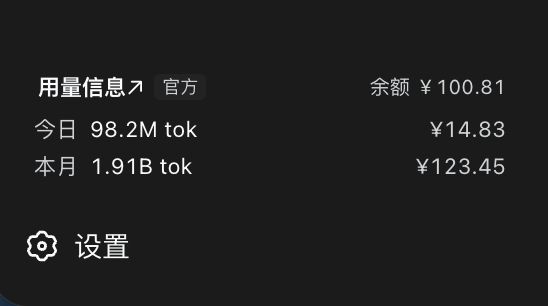
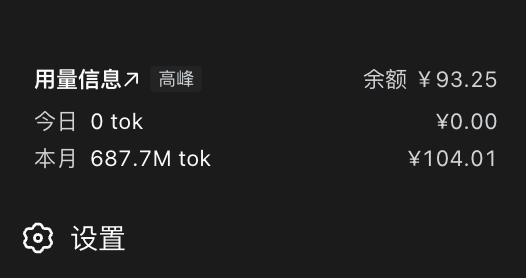
ui: restore pricing tier badge and refresh preview

diff --git a/client.js b/client.js
@@ -36,6 +36,15 @@ if (typeof window !== 'undefined' && window.__ModuleLoader__) {
       return `余额 ${symbol}${truncate2(amount).toFixed(2)}`
     }
 
+    // 恢复原有北京时间时段提示；仅用于展示，不参与 token 或费用计算。
+    function pricingTier() {
+      const now = new Date(Date.now() + 8 * 60 * 60 * 1000)
+      const h = now.getUTCHours()
+      const day = now.getUTCDay()
+      if (day === 0 || day === 6) return '空闲'
+      return (h >= 9 && h < 12) || (h >= 14 && h < 18) ? '高峰' : '空闲'
+    }
+
     module.exports.inject = ['slots']
 
     module.exports.apply = function apply(ctx) {
@@ -132,8 +141,8 @@ if (typeof window !== 'undefined' && window.__ModuleLoader__) {
           },
             React.createElement('span', { className: 'dshus-title' }, '用量信息'),
             React.createElement('span', { className: 'dshus-link' }, '↗'),
-            data !== null && data.status === 'ready'
-              ? React.createElement('span', { className: 'dshus-badge' }, '官方')
+            data !== null
+              ? React.createElement('span', { className: 'dshus-badge' }, pricingTier())
               : null),
           data !== null && data.balance !== null && data.balance !== undefined
             ? React.createElement('span', { className: 'dshus-balance' }, formatBalance(data.balance.amount, data.balance.currency))
